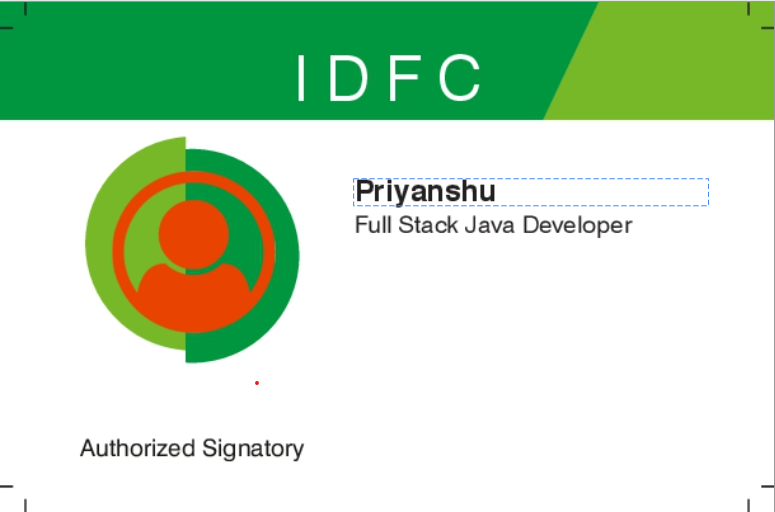
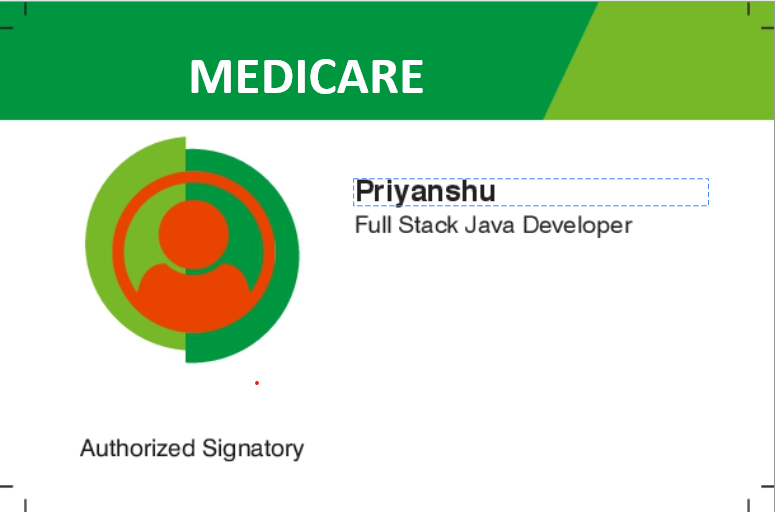
Finished All tasks

Changed region(s): [[0.2477, 0.0938, 0.6194, 0.2188]]

diff --git a/src/components/Home.jsx b/src/components/Home.jsx
@@ -50,16 +50,12 @@ export default function Home() {
       </div>
 
 
-      <h1 className="display-3" style={{    fontWeight:"bold"}}>IDFC BANKING SYSTEM</h1>
+      <h1 className="display-3" style={{    fontWeight:"bold"}}>MEDICARE GROUP</h1>
       <p style={{ backgroundColor: "" , padding:10 ,color:"yellow" }}>
-        This is IDFC banking App for Admin Users Not for Normal Users <br />
-        Developed by Priyam anand For IDFC ADMIN Users Only{" "}
+      The MediCare system includes hospital listings, appointment booking, and access to medical records. Future plans include integrating realtime updates for emergency services and medication delivery. <br />
+        Developed by Priyanshu anand For Medicare Users Only{" "}
       </p>
-
-  
     <Button color="success"  onClick={()=>{navigate("/landing-page");}}>Click Here To Get Started</Button>
- 
-     
     </div>
   );
 }

diff --git a/src/components/GetAllAppointments.jsx b/src/components/GetAllAppointments.jsx
@@ -2,13 +2,8 @@ import React, { useEffect, useState } from 'react'
 import Appointments from './Appointments';
 import { getSheduled } from '../API/service';
 import { toast } from 'react-toastify';
-import { useNavigate } from 'react-router-dom';
 
 const GetAllAppointments = (data) => {
- 
-
-
-   
     const [appointments, setAppointments] = useState([   {
         "personName": "priyam",
         "personAge": 24,
@@ -25,8 +20,6 @@ const GetAllAppointments = (data) => {
     }
     ]);
   
-
-    
     useEffect(() => {
       document.title = "getAllAppointments";
       console.log(data)

diff --git a/src/components/Appointments.jsx b/src/components/Appointments.jsx
@@ -7,17 +7,16 @@ import {
   CardText,
   Container,
 } from "reactstrap";
-import { useNavigate } from "react-router-dom";
 import { getHospitalImage } from '../Image/Images';
 const Appointments = ({details}) => {
-  const navigate = useNavigate();
+
     return (
         <div>
           <Card
             className="container my-2"
             style={{
               width: "23rem",
-              height: "25rem",
+              height: "30rem",
             }}
           >
             <img

diff --git a/src/components/Footer.js b/src/components/Footer.js
@@ -41,7 +41,7 @@ return (
     
 		</Row>
         <br/>
-        <h5 className="text-center" style={{color:"white"}}> This is only for IDFC Admin User @copyrights 2021 Developed by Priyam Anand</h5>
+        <h5 className="text-center" style={{color:"white"}}> This is only for Medicare User @copyrights 2024 Developed by Priyanshu Anand</h5>
 	</Container>
 	<script src="https://www.gstatic.com/dialogflow-console/fast/messenger/bootstrap.js?v=1"></script>
 

diff --git a/src/components/SearchAppointments.js b/src/components/SearchAppointments.js
@@ -23,9 +23,9 @@ export default function SearchAppointments() {
 
   return (
     <>
-      <form
-        className="container form-inline"
-        // style={{ : "325px" }}
+      <form 
+        className="container form-inline text-center"
+        style={{ paddingLeft: "360px" }}
         onSubmit={onSubmit}
       >
         <input

diff --git a/src/components/AboutUs.js b/src/components/AboutUs.js
@@ -49,10 +49,8 @@ export default function AboutUs() {
 
 
       <p style={{ backgroundColor: "" , padding:10 ,color:"yellow" }}>
-        We are IDFC Members <br/>Above all are the CEO of IDFC
-      </p>
-
-  
+        We are Medicare Members <br/>Above all are the Members of MEdicare Group
+      </p>  
     
     </div>
   );

diff --git a/src/components/LandingPage.jsx b/src/components/LandingPage.jsx
@@ -12,7 +12,7 @@ const LandingPage = () => {
   return (
    
         <div style={{ background: "linear-gradient(90deg, rgba(228,161,161,1) 0%, rgba(232,98,98,1) 19%, rgba(139,23,23,1) 62%, rgba(128,3,3,1) 100%)" ,height:"95vh" } }  className="text-center">
-   
+  
         <ToastContainer />
     <NavBarCom/>
 

diff --git a/src/components/NavBarCom.jsx b/src/components/NavBarCom.jsx
@@ -88,7 +88,6 @@ export default function NavBarCom(props) {
         style={{ paddingLeft: 1524, float: "right", position: "absolute" }}
       >
       
-
         <Link to="/home">
           <img
             src={require("../Image/logo.png")}
